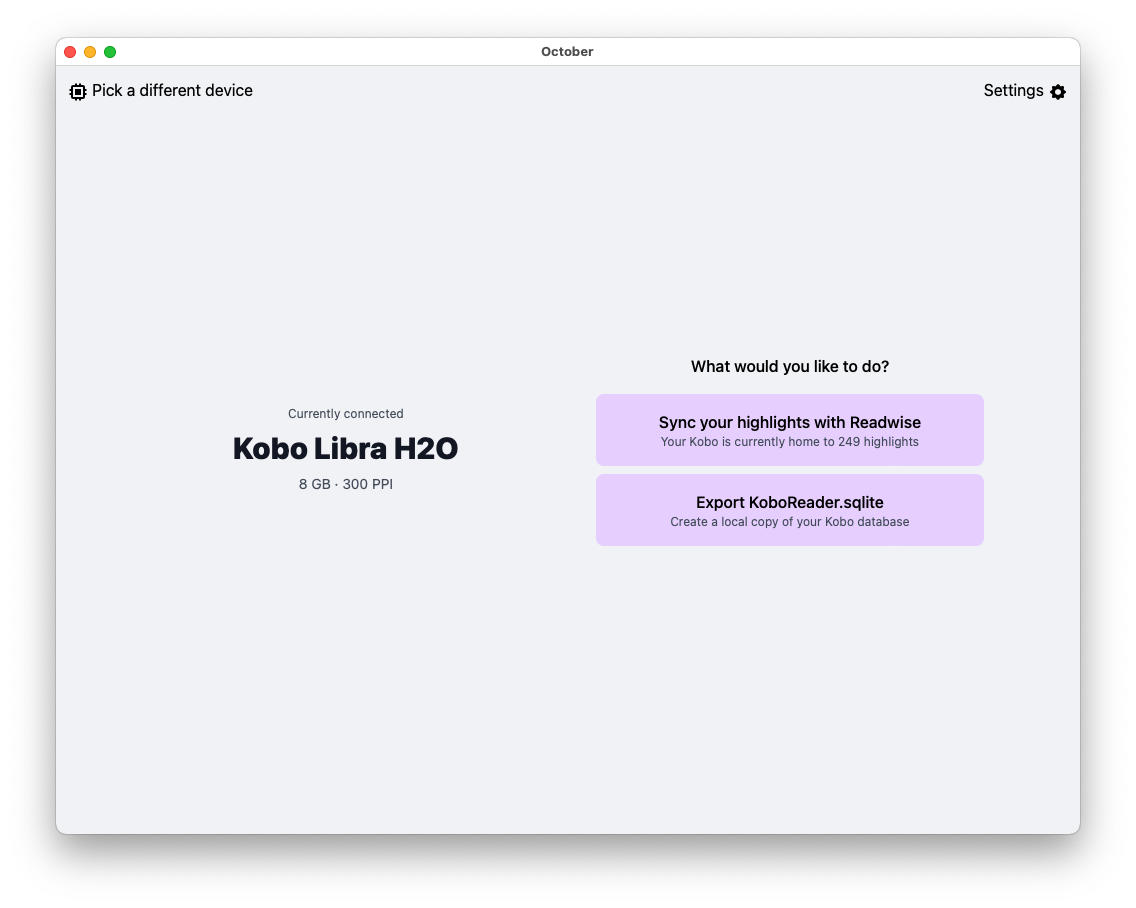
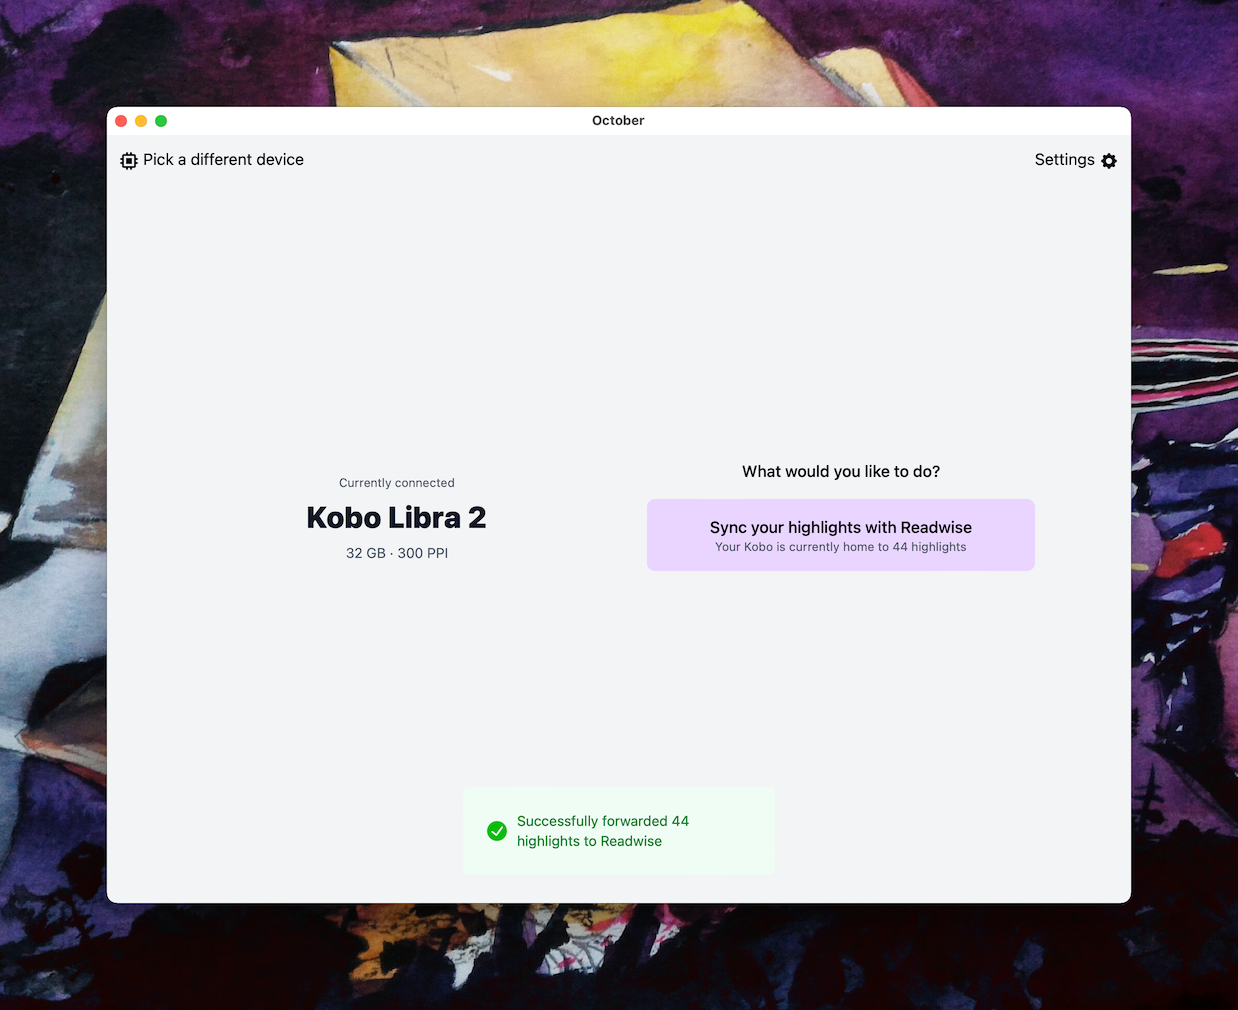
Update README

diff --git a/README.md b/README.md
@@ -7,11 +7,47 @@
 
 ## What is October?
 
-**⚠ UNDER CONSTRUCTION**
+A small [Wails](https://github.com/wailsapp/wails) application for syncing your highlights with [Readwise](https://readwise.io).
 
-This application does not work yet. There is no point compiling it!
+Kobo's are notorious for not being user friendly to extract highlights off of. Personally I only send mine to Readwise anyway so this tool does just that in as little as two clicks.
 
-A small [Wails](https://github.com/wailsapp/wails) application for retrieving Kobo highlights. It also offers the ability to sync your highlights with [Readwise](https://readwise.io).
+Eventually, if I get around to it, I plan to allow exporting your Kobo database to disc and to various formats if that's useful.
+
+For now, I just use the Readwise functionality the most.
+
+## Early access
+
+While the first release is published, and visually it's fairly polished, the codebase is a bit messier than I'd like.
+
+To reflect that, I haven't published v1.0.0 just yet but it's good enough to use (and I do use it regularly) so feel free to file any issues you run into.
+
+## Installation
+
+For now, the installation process is pretty barebones. You can find two macOS `.app` files zipped up, one for Intel machines and one for Apple Silicon.
+
+A Windows build is possible, and will likely be uploaded shortly. I just need to actually find a Windows machine to test on but it should work all the same.
+
+Feel free to file an issue if you'd like to see a Windows build and I can prioritise it.
+
+For Linux users, [Wails](https://wails.io) is almost at the point of releasing Linux beta support so a Linux build should be possible soon but again, I need to set up a Linux distro to test it.
+
+## Usage
+
+The scope of October is pretty small.
+
+To get started, you'll need to get your Readwise access token from [https://readwise.io/access_token](https://readwise.io/access_token).
+
+Once you've done that, navigate to the Settings page (after selecting your Kobo), save it once and then navigate back to Overview to use the sync functionality.
+
+Your token will be saved locally so you only need to provide it once.
+
+## Kobo Support
+
+Under the hood, I use pgaskin's [koboutils](https://github.com/pgaskin/koboutils) library.
+
+It doesn't support the Sage, Libra 2 or Elipsa however so I've hacked in support temporarily as I got a Libra 2 recently.
+
+It should all work the same but buyer beware and all that. October never writes to your Kobo, just reads so you should be perfectly safe.
 
 ## Screenshots
 
@@ -24,6 +60,12 @@ A small [Wails](https://github.com/wailsapp/wails) application for retrieving Ko
 <details><summary>Device overview</summary>
 
 ![](./docs/overview.png)
+
+</details>
+
+<details><summary>Device overview</summary>
+
+![](./docs/settings.png)
 
 </details>
 
